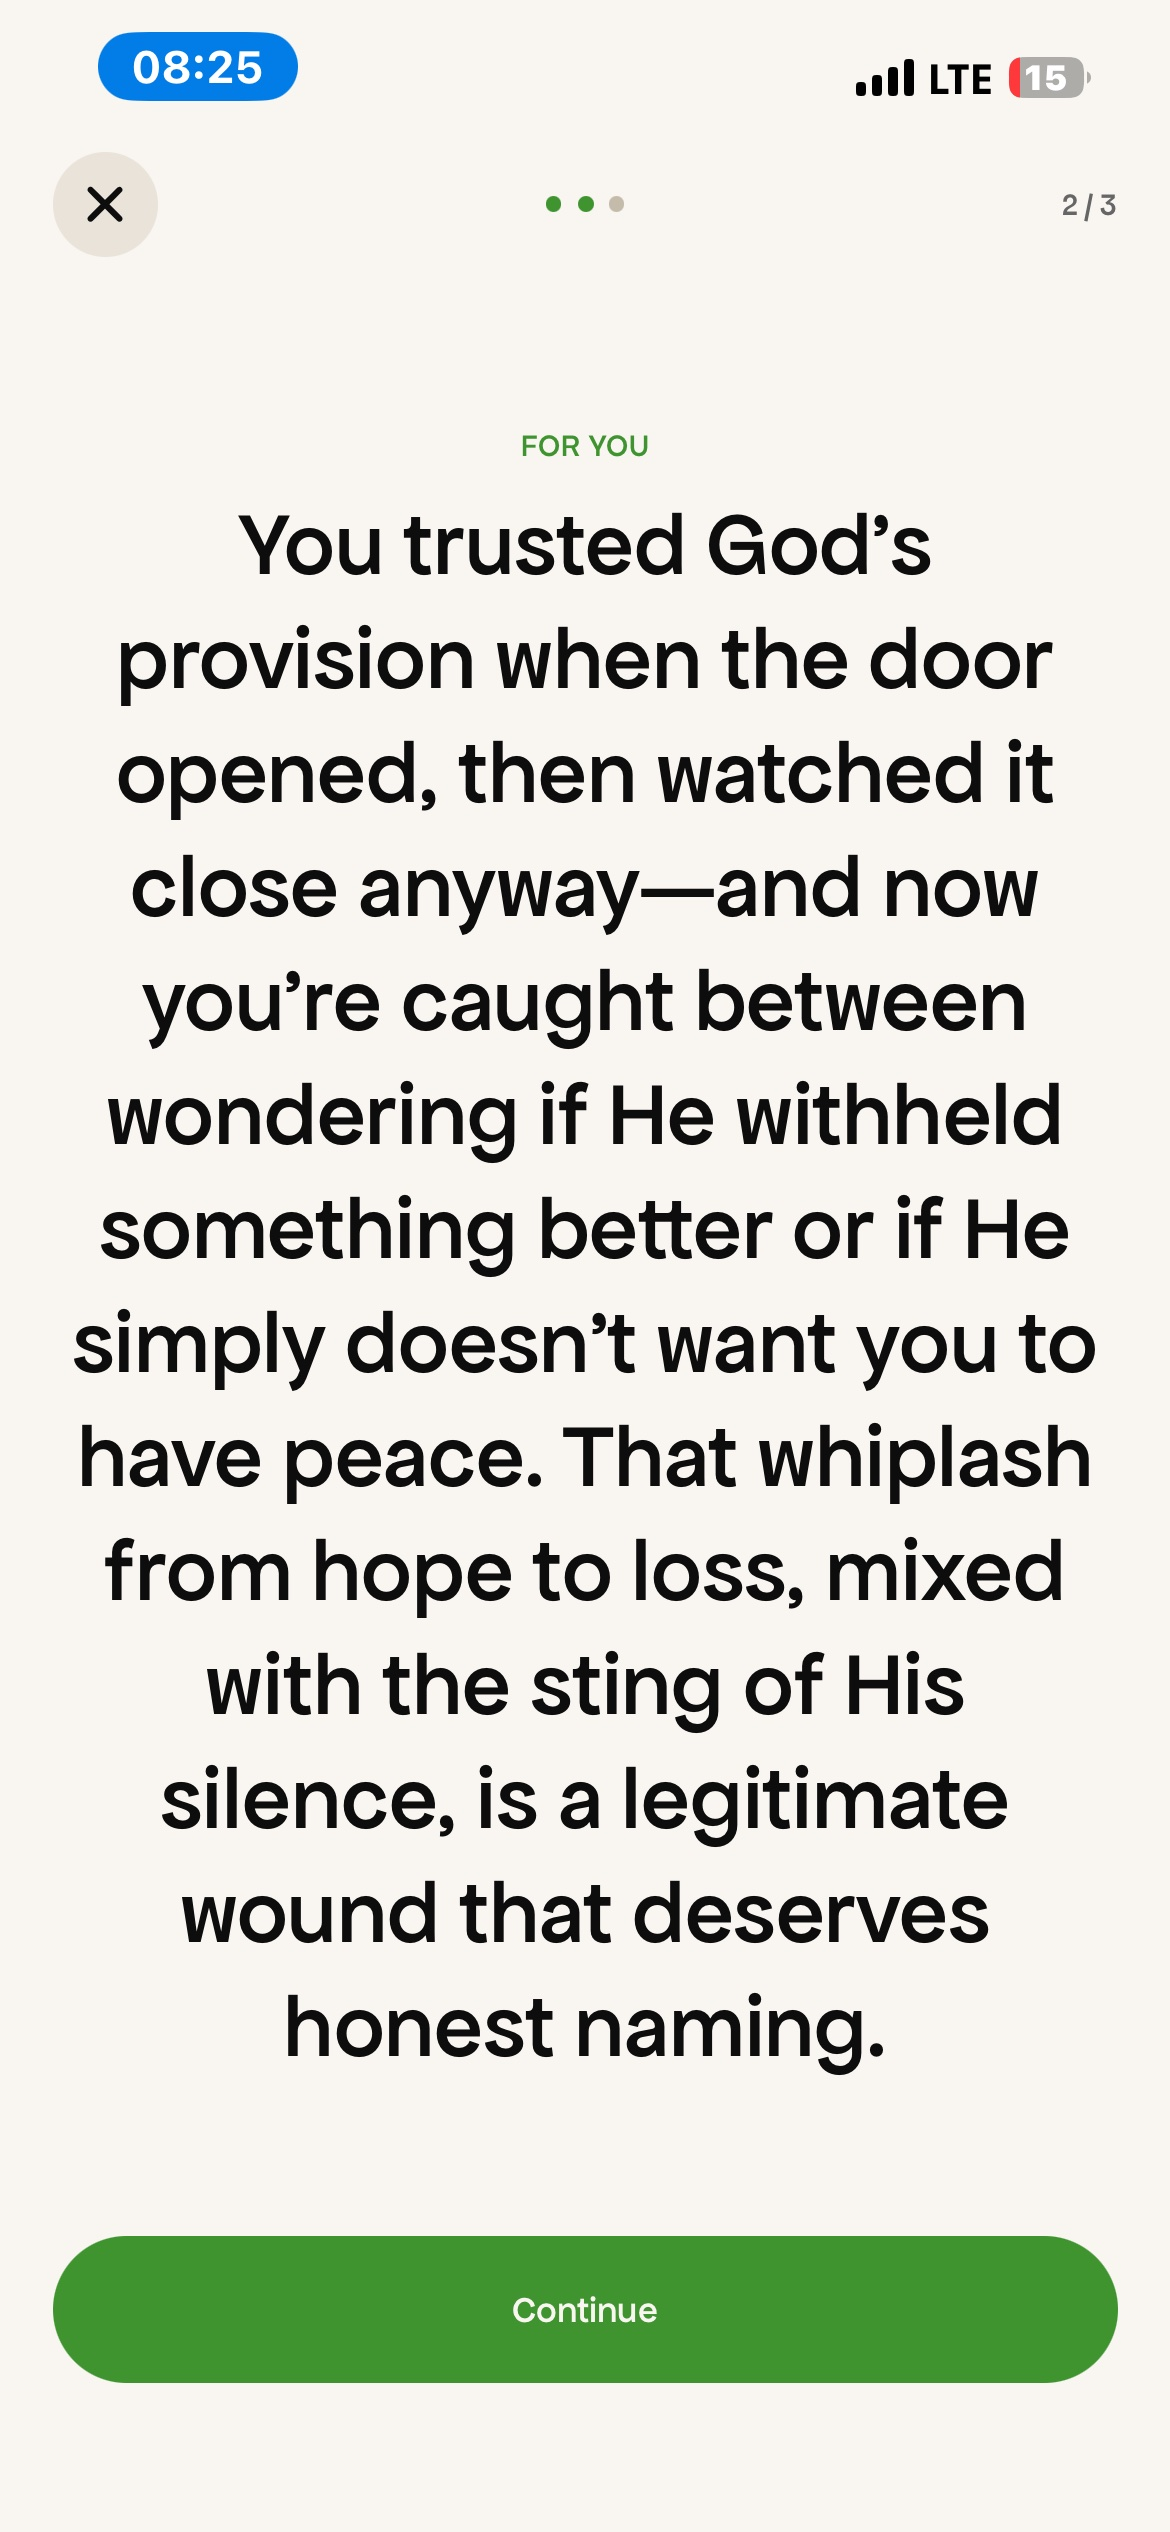
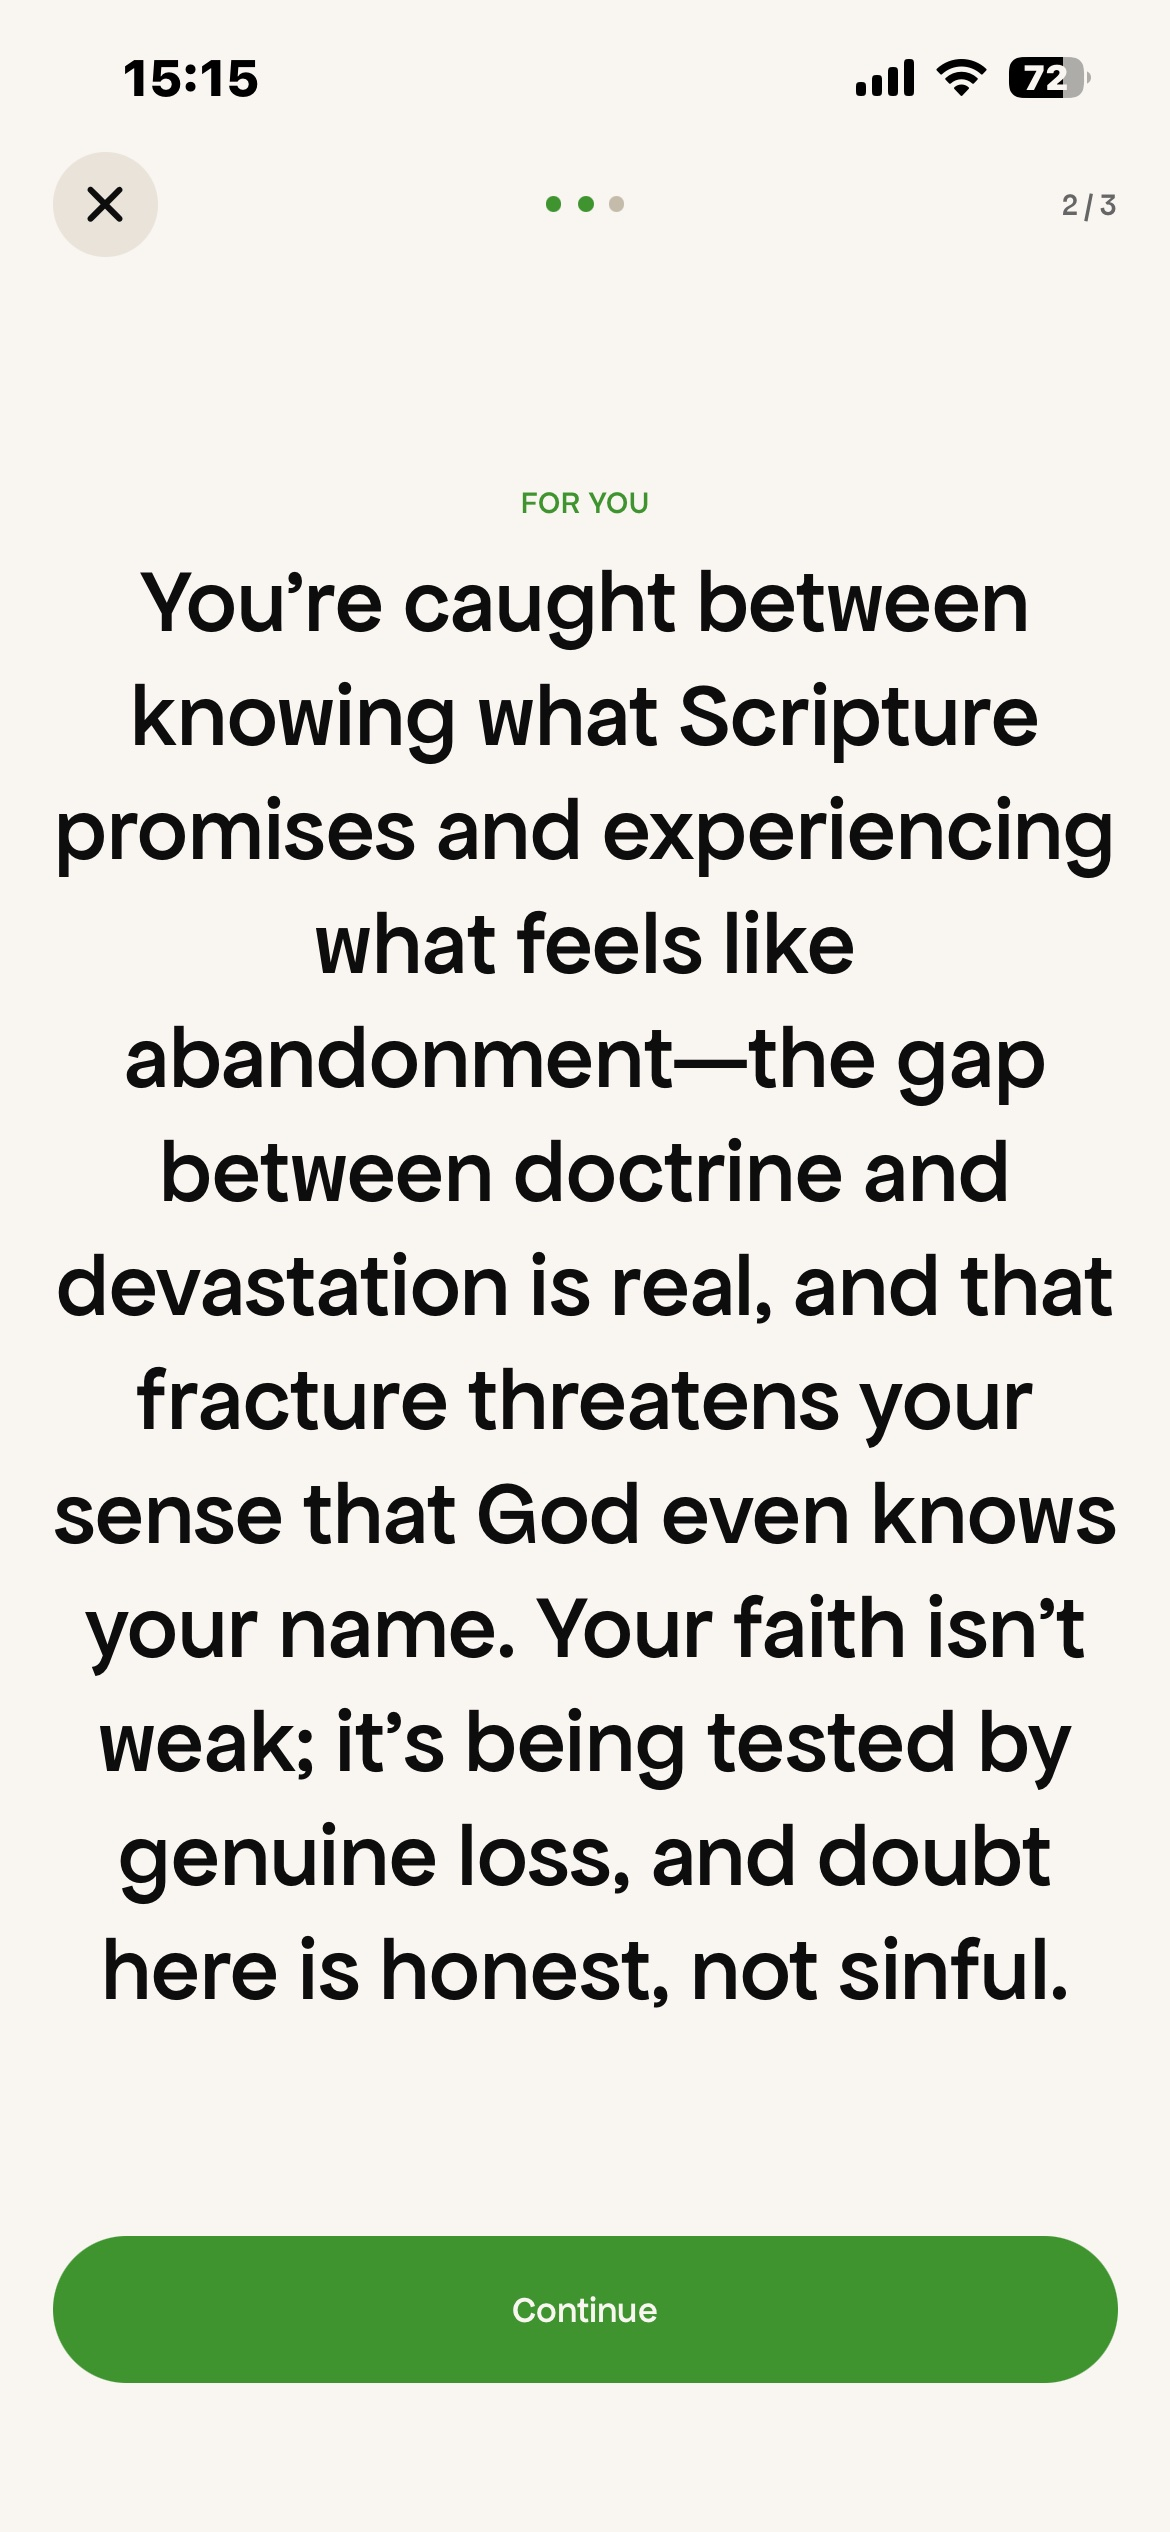
Swap ISIT's journey to the fuller captured run
Mirrors inspiritintruth.net: four beats now, including the depth step
the first run missed, the more universal confession, and the
Ecclesiastes excerpt from that devotional. Grid takes 3 or 4 steps
without a layout change. Clock: 15:14 to 15:16.

diff --git a/lib/apps.ts b/lib/apps.ts
@@ -22,6 +22,7 @@ import isitDiscover from "@/public/screenshots/isit-discover.jpg";
 import isitProfile from "@/public/screenshots/isit-profile.jpg";
 import isitJourneyShare from "@/public/screenshots/isit-journey-share.jpg";
 import isitJourneyNamed from "@/public/screenshots/isit-journey-named.jpg";
+import isitJourneyTime from "@/public/screenshots/isit-journey-time.jpg";
 import isitJourneyRead from "@/public/screenshots/isit-journey-read.jpg";
 // tapa. — phone screens
 import tapaHome from "@/public/screenshots/tapa-home.jpg";
@@ -320,17 +321,23 @@ export const apps: App[] = [
           image: isitJourneyNamed,
         },
         {
+          label: "You choose the depth",
+          caption:
+            "A quick moment or a deeper sit. The devotional is written to the time you actually have.",
+          image: isitJourneyTime,
+        },
+        {
           label: "You read",
           caption:
             "A full devotional — title, scripture, reflection — written for that exact moment.",
           image: isitJourneyRead,
         },
       ],
-      timeNote: "Shared at 08:25. Reading by 08:27.",
+      timeNote: "Shared at 15:14. Reading by 15:16.",
       excerpt: {
         lead: "From that exact devotional:",
-        text: "A God who is not fickle does not toy. What can look like divine whiplash, from inside the pain, is often something else entirely: a world that is genuinely fallen, employers who make decisions for reasons that have nothing to do with your worth, an economy or circumstance that is simply broken in ways Scripture never denies. God opening a door doesn\u2019t insulate that door from a fallen world\u2019s storms. It means He was present in giving it, and He remains present in its loss.",
-        source: "Why Does It Feel Like God Won\u2019t Let Me Be Happy?",
+        text: "Living in a broken world means loss visits the faithful and unfaithful alike. Ecclesiastes is unflinching about this \u2014 the same events happen to all. This isn\u2019t a comforting truth in the moment, but it is a freeing one: suffering is not proof of divine rejection. It is proof of living in a world still groaning, waiting for restoration (Romans 8:22).",
+        source: "When God Feels Absent (Even Though You Know the Word)",
       },
     },
     screenshots: [isitHome, isitDevotionals, isitPersonalise, isitBible, isitDiscover, isitProfile],

diff --git a/components/apps/AppJourneySection.tsx b/components/apps/AppJourneySection.tsx
@@ -23,8 +23,8 @@ export default function AppJourneySection({ app }: { app: App }) {
         subtitle={journey.intro}
       />
 
-      {/* The steps, numbered */}
-      <div className="mt-12 grid gap-12 sm:grid-cols-3 sm:gap-6 lg:gap-10">
+      {/* The steps, numbered — fits 3 or 4 without a layout change */}
+      <div className="mt-12 grid gap-12 sm:grid-cols-2 sm:gap-8 lg:grid-cols-4 lg:gap-6">
         {journey.steps.map((step, i) => (
           <div key={step.label} className="flex flex-col">
             <div className="mx-auto w-full max-w-[240px] overflow-hidden rounded-well border border-border bg-surface">
